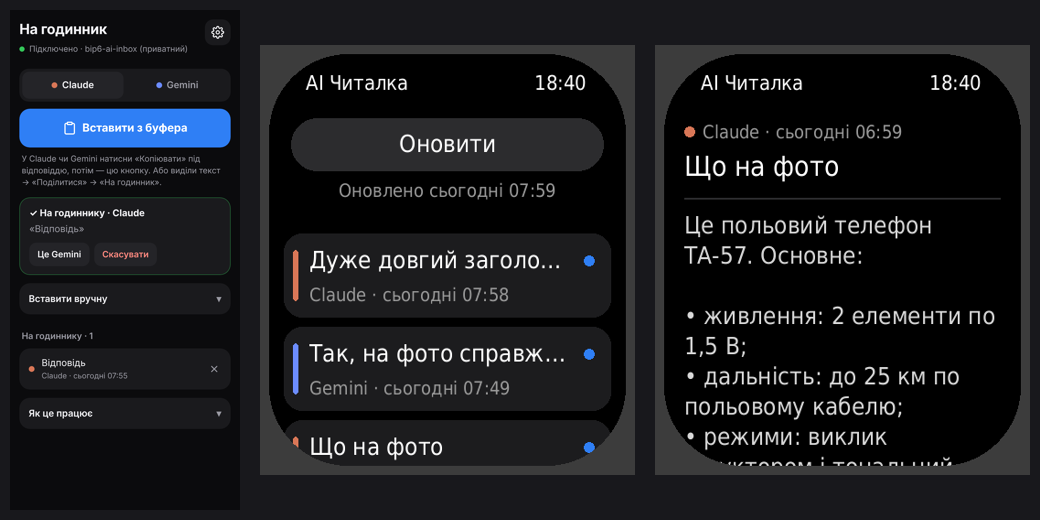
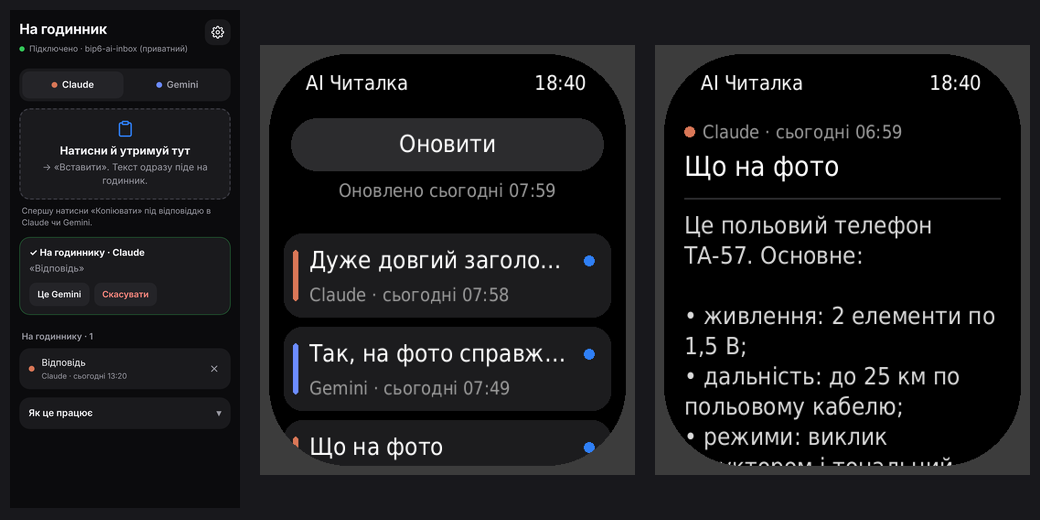
Вставка без дозволу на буфер; екран годинника не гасне
Телефон: замість кнопки, що читала буфер через дозвіл браузера (Chrome на
Android його не питав), — поле «утримуй → Вставити». Вставлене з меню чи з
підказки клавіатури надсилається одразу; якщо не вдалося — лишається в полі
з кнопкою «Надіслати на годинник».

Годинник: поки відкрита програма, екран не гасне сам (запобіжник — 10 хв
без дотиків), на списку й на перегляді.

Claude-Session: https://claude.ai/code/session_01BMYQ76pMn6ygJVUK5bhdNY

diff --git a/.pwa/app.js b/.pwa/app.js
@@ -67,7 +67,8 @@ const state = {
   check: null, // { ok, code, name }
   busy: false,
   last: null, // { text, at }
-  repeatArmed: false
+  repeatArmed: false,
+  boxPrev: '' // вміст поля до останньої зміни
 }
 
 const $ = (id) => document.getElementById(id)
@@ -277,10 +278,8 @@ async function undo(entry) {
 
 function setBusy(on) {
   state.busy = on
-  const btn = $('paste')
-  btn.disabled = on
-  $('manualSend').disabled = on
-  $('pasteLabel').textContent = on ? 'Надсилаю…' : 'Вставити з буфера'
+  $('boxSend').disabled = on
+  $('pasteZone').classList.toggle('busy', on)
 }
 
 async function send(raw, hint) {
@@ -303,12 +302,13 @@ async function send(raw, hint) {
   const now = Date.now()
   if (state.last && state.last.text === text && now - state.last.at < 90000 && !state.repeatArmed) {
     state.repeatArmed = true
-    showResult('err', 'Цей текст уже надіслано щойно', 'Натисни ще раз, якщо треба надіслати повторно.')
+    showResult('err', 'Цей текст уже надіслано щойно', 'Щоб надіслати ще раз — натисни «Надіслати на годинник».')
     return false
   }
   state.repeatArmed = false
 
   setBusy(true)
+  showResult('busy', 'Надсилаю на годинник…', '')
   try {
     if (!state.check || !state.check.ok) {
       const res = await checkConnection()
@@ -335,31 +335,59 @@ async function send(raw, hint) {
   }
 }
 
-async function pasteFromClipboard() {
-  if (state.busy) return
-  if (!navigator.clipboard || !navigator.clipboard.readText) {
-    openManual('Браузер не дає прочитати буфер — встав текст сюди.')
-    return
-  }
-  let text = ''
-  try {
-    text = await navigator.clipboard.readText()
-  } catch (e) {
-    openManual('Немає доступу до буфера. Дозволь його в запиті браузера або встав текст сюди.')
-    return
-  }
-  if (!text || !text.trim()) {
-    showResult('err', 'Буфер порожній', 'Спершу натисни «Копіювати» під відповіддю в Claude чи Gemini.')
-    return
-  }
-  await send(text)
+// ---------- поле для вставки ----------
+// Прочитати буфер сама сторінка може лише з дозволу, а Chrome на Android його
+// не завжди питає. Тож вставляє користувач: утримати поле → «Вставити» (або
+// торкнутися скопійованого тексту над клавіатурою). Вставлене йде одразу.
+
+const PASTE_MIN = 25 // стільки символів за один раз — це вставка, а не набір
+
+function hasText(s) {
+  return /\S/.test(s || '')
 }
 
-function openManual(message) {
-  const d = $('manual')
-  d.open = true
-  if (message) showResult('err', message, '')
-  setTimeout(() => $('manualText').focus(), 50)
+function updateBox() {
+  state.boxPrev = $('pasteBox').value
+  $('boxActions').classList.toggle('hidden', !hasText(state.boxPrev))
+}
+
+// Системне меню «Вставити»: беремо текст із події й замінюємо ним поле,
+// щоб він не дописався до старого.
+function onBoxPaste(e) {
+  const data = e.clipboardData
+  const text = data ? data.getData('text/plain') || data.getData('text') : ''
+  if (!hasText(text)) return // нехай браузер вставить сам, далі спрацює input
+  e.preventDefault()
+  $('pasteBox').value = text
+  submitBox()
+}
+
+// Вставка, яку не видно як paste: підказка клавіатури, перетягування.
+function onBoxInput(e) {
+  const prev = state.boxPrev || ''
+  const value = $('pasteBox').value
+  updateBox()
+  const type = e.inputType || ''
+  const jump = !hasText(prev) && value.length - prev.length >= PASTE_MIN && /\s/.test(value.trim())
+  if (type === 'insertFromPaste' || type === 'insertFromDrop' || jump) submitBox()
+}
+
+async function submitBox() {
+  const box = $('pasteBox')
+  const text = box.value
+  if (state.busy || !hasText(text)) {
+    updateBox()
+    return
+  }
+  box.blur() // ховає клавіатуру, щоб було видно результат
+  const ok = await send(text)
+  if (ok && box.value === text) box.value = ''
+  updateBox()
+}
+
+function clearBox() {
+  $('pasteBox').value = ''
+  updateBox()
 }
 
 function openRepoSettings() {
@@ -411,7 +439,8 @@ async function saveSettings() {
     if (pending) {
       try {
         const p = JSON.parse(pending)
-        await send(p.raw, p.hint)
+        const sent = await send(p.raw, p.hint)
+        if (sent && $('pasteBox').value === p.raw) clearBox()
       } catch (e) {}
     }
     setTimeout(closeSettings, 900)
@@ -464,11 +493,12 @@ function init() {
     input.type = input.type === 'password' ? 'text' : 'password'
   })
   $('saveSettings').addEventListener('click', saveSettings)
-  $('paste').addEventListener('click', pasteFromClipboard)
-  $('manualSend').addEventListener('click', async () => {
-    const ok = await send($('manualText').value)
-    if (ok) $('manualText').value = ''
-  })
+  const box = $('pasteBox')
+  box.addEventListener('paste', onBoxPaste)
+  box.addEventListener('input', onBoxInput)
+  $('boxSend').addEventListener('click', submitBox)
+  $('boxClear').addEventListener('click', clearBox)
+  updateBox()
   document.querySelectorAll('.seg button').forEach((b) =>
     b.addEventListener('click', () => {
       state.src = b.dataset.src === 'gemini' ? 'gemini' : 'claude'

diff --git a/.pwa/index.html b/.pwa/index.html
@@ -55,13 +55,36 @@
   .primary { width: 100%; height: 66px; margin-top: 12px; border-radius: var(--radius); background: var(--accent); color: #fff; font-size: 19px; font-weight: 650; display: flex; align-items: center; justify-content: center; gap: 10px; }
   .primary:active { background: var(--accent-press); }
   .primary:disabled { opacity: .55; }
-  .primary svg { width: 24px; height: 24px; }
   .hint { color: var(--muted); font-size: 14px; margin: 10px 4px 0; }
+
+  /* Поле для вставки: утримати → «Вставити». Дозволу на буфер не потребує. */
+  .paste-zone { position: relative; margin-top: 12px; }
+  .paste-zone textarea {
+    display: block; width: 100%; min-height: 156px; resize: none;
+    background: var(--card); border: 2px dashed #3d3d45; border-radius: var(--radius);
+    padding: 14px 16px; font-size: 15px; line-height: 1.4;
+  }
+  .paste-zone textarea:focus { border-style: solid; border-color: var(--accent); }
+  .pz-hint {
+    position: absolute; inset: 0; display: flex; flex-direction: column; align-items: center; justify-content: center;
+    gap: 3px; padding: 16px; text-align: center; color: var(--muted); pointer-events: none;
+  }
+  .pz-hint svg { width: 30px; height: 30px; color: var(--accent); margin-bottom: 6px; }
+  .pz-hint b { color: var(--text); font-size: 19px; font-weight: 650; }
+  .paste-zone textarea:not(:placeholder-shown) + .pz-hint { display: none; }
+  .paste-zone.busy textarea { opacity: .55; }
+  .pz-actions { display: flex; gap: 8px; margin-top: 10px; }
+  .pz-actions .primary { flex: 1; margin-top: 0; height: 54px; font-size: 17px; }
+  .pz-actions .secondary { width: auto; margin-top: 0; height: 54px; padding: 0 18px; }
 
   .result { margin-top: 14px; padding: 14px 16px; border-radius: var(--radius); background: var(--card); border: 1px solid var(--line); }
   .result.ok { border-color: rgba(52,199,89,.45); }
   .result.err { border-color: rgba(255,69,58,.5); }
   .result .r-head { font-weight: 650; }
+  .result.busy .r-head::before {
+    content: ""; display: inline-block; width: 14px; height: 14px; margin-right: 9px; vertical-align: -2px;
+    border-radius: 50%; border: 2px solid rgba(255,255,255,.3); border-top-color: #fff; animation: s .8s linear infinite;
+  }
   .result .r-title { color: var(--muted); margin-top: 4px; overflow-wrap: anywhere; }
   .result .r-actions { display: flex; gap: 8px; margin-top: 12px; flex-wrap: wrap; }
   .chip { height: 40px; padding: 0 14px; border-radius: 12px; background: var(--card-2); font-weight: 600; font-size: 15px; }
@@ -104,7 +127,6 @@
   ol { padding-left: 20px; margin: 8px 0 0; }
   ol li { margin: 6px 0; }
   .hidden { display: none !important; }
-  .spin { width: 20px; height: 20px; border-radius: 50%; border: 3px solid rgba(255,255,255,.35); border-top-color: #fff; animation: s 0.8s linear infinite; }
   @keyframes s { to { transform: rotate(360deg); } }
 </style>
 </head>
@@ -143,25 +165,25 @@
     <button type="button" data-src="gemini" aria-pressed="false"><span class="src-dot c-gemini"></span>Gemini</button>
   </div>
 
-  <button class="primary" id="paste" type="button">
-    <svg viewBox="0 0 24 24" fill="none" stroke="currentColor" stroke-width="2" stroke-linecap="round" stroke-linejoin="round"><rect x="8" y="2" width="8" height="4" rx="1"/><path d="M16 4h2a2 2 0 0 1 2 2v14a2 2 0 0 1-2 2H6a2 2 0 0 1-2-2V6a2 2 0 0 1 2-2h2"/></svg>
-    <span id="pasteLabel">Вставити з буфера</span>
-  </button>
-  <p class="hint">У Claude чи Gemini натисни «Копіювати» під відповіддю, потім — цю кнопку. Або виділи текст → «Поділитися» → «На годинник».</p>
+  <div class="paste-zone" id="pasteZone">
+    <textarea id="pasteBox" placeholder=" " aria-label="Встав відповідь сюди" autocomplete="off" autocorrect="off" autocapitalize="off" spellcheck="false"></textarea>
+    <div class="pz-hint" aria-hidden="true">
+      <svg viewBox="0 0 24 24" fill="none" stroke="currentColor" stroke-width="2" stroke-linecap="round" stroke-linejoin="round"><rect x="8" y="2" width="8" height="4" rx="1"/><path d="M16 4h2a2 2 0 0 1 2 2v14a2 2 0 0 1-2 2H6a2 2 0 0 1-2-2V6a2 2 0 0 1 2-2h2"/></svg>
+      <b>Натисни й утримуй тут</b>
+      <span>→ «Вставити». Текст одразу піде на годинник.</span>
+    </div>
+  </div>
+  <div class="pz-actions hidden" id="boxActions">
+    <button class="primary" id="boxSend" type="button">Надіслати на годинник</button>
+    <button class="secondary" id="boxClear" type="button">Очистити</button>
+  </div>
+  <p class="hint">Спершу натисни «Копіювати» під відповіддю в Claude чи Gemini.</p>
 
   <div id="result" class="result hidden" role="status">
     <div class="r-head" id="resultHead"></div>
     <div class="r-title" id="resultTitle"></div>
     <div class="r-actions" id="resultActions"></div>
   </div>
-
-  <details id="manual">
-    <summary>Вставити вручну</summary>
-    <div class="details-body">
-      <textarea id="manualText" placeholder="Натисни й утримуй тут → «Вставити»"></textarea>
-      <button class="secondary" id="manualSend" type="button">Надіслати на годинник</button>
-    </div>
-  </details>
 
   <h2 id="listTitle">На годиннику</h2>
   <div class="list" id="list"><div class="empty">Завантаження…</div></div>

diff --git a/page/index.js b/page/index.js
@@ -7,8 +7,8 @@ import { getDeviceInfo } from '@zos/device'
 import { BasePage } from '@zeppos/zml/base-page'
 import { loadIndex, syncItems, hasText, writeText } from '../utils/cache'
 import { formatStamp } from '../utils/time'
-import { COLOR, SOURCE_COLOR, STATUS_BAR_H, PREFETCH } from '../utils/constants'
-import { statusBar, setProps, removeWidget } from '../utils/ui'
+import { COLOR, SOURCE_COLOR, STATUS_BAR_H, PREFETCH, SCREEN_ON_MS } from '../utils/constants'
+import { statusBar, keepScreenOn, setProps, removeWidget } from '../utils/ui'
 import { errorMessage, bleCode } from '../utils/messages'
 import { SOURCE_NAMES } from '../shared/config'
 
@@ -40,6 +40,7 @@ Page(
       const { width: W } = getDeviceInfo()
       this.W = W
       statusBar(true)
+      keepScreenOn(SCREEN_ON_MS)
 
       let y = STATUS_BAR_H + 6
       hmUI.createWidget(hmUI.widget.BUTTON, {
@@ -99,7 +100,7 @@ Page(
             y: y + 10,
             w: W - 60,
             h: 200,
-            text: 'Поки порожньо.\nНа телефоні скопіюй відповідь Claude чи Gemini і натисни «Вставити» на сторінці «На годинник».',
+            text: 'Поки порожньо.\nСкопіюй відповідь Claude чи Gemini на телефоні й встав її на сторінці «На годинник».',
             text_size: 22,
             color: COLOR.TEXT_DIM,
             align_h: hmUI.align.CENTER_H,

diff --git a/page/view.js b/page/view.js
@@ -3,12 +3,11 @@
 import * as hmUI from '@zos/ui'
 import { back, replace } from '@zos/router'
 import { getDeviceInfo } from '@zos/device'
-import { setPageBrightTime } from '@zos/display'
 import { BasePage } from '@zeppos/zml/base-page'
 import { loadIndex, readText, writeText, markSeen } from '../utils/cache'
 import { formatStamp } from '../utils/time'
-import { COLOR, SOURCE_COLOR, STATUS_BAR_H, MAX_SHOWN } from '../utils/constants'
-import { statusBar, parseParams, textHeight, splitChunks, setProps } from '../utils/ui'
+import { COLOR, SOURCE_COLOR, STATUS_BAR_H, MAX_SHOWN, SCREEN_ON_MS } from '../utils/constants'
+import { statusBar, keepScreenOn, parseParams, textHeight, splitChunks, setProps } from '../utils/ui'
 import { errorMessage, bleCode } from '../utils/messages'
 import { SOURCE_NAMES } from '../shared/config'
 
@@ -33,9 +32,7 @@ Page(
       const { width: W } = getDeviceInfo()
       this.W = W
       statusBar(true)
-      try {
-        setPageBrightTime({ brightTime: 30000 })
-      } catch (e) {}
+      keepScreenOn(SCREEN_ON_MS)
 
       const textW = W - PAD_X * 2
       let y = STATUS_BAR_H + 6

diff --git a/utils/ui.js b/utils/ui.js
@@ -1,8 +1,17 @@
 import * as hmUI from '@zos/ui'
+import { setPageBrightTime } from '@zos/display'
 
 export function statusBar(visible) {
   try {
     if (typeof hmUI.setStatusBarVisible === 'function') hmUI.setStatusBarVisible(visible)
+  } catch (e) {}
+}
+
+// Час світіння екрана для поточної сторінки (відлік від останнього дотику).
+// Коли сторінка закривається, система сама повертає звичайний час.
+export function keepScreenOn(ms) {
+  try {
+    setPageBrightTime({ brightTime: ms })
   } catch (e) {}
 }
 

diff --git a/utils/constants.js b/utils/constants.js
@@ -30,3 +30,7 @@ export const MAX_SHOWN = 12000
 
 // Скільки найновіших текстів підвантажувати наперед після оновлення списку.
 export const PREFETCH = 3
+
+// Поки програма відкрита, екран не гасне сам. Запобіжник для батареї:
+// згасне після 10 хв без жодного дотику.
+export const SCREEN_ON_MS = 10 * 60 * 1000

diff --git a/.pwa/sw.js b/.pwa/sw.js
@@ -1,7 +1,7 @@
 // Кешує оболонку сторінки, щоб вона відкривалася швидко й без мережі.
 // Запити до GitHub API не кешуються.
 
-const CACHE = 'na-hodynnyk-v1'
+const CACHE = 'na-hodynnyk-v2'
 const SHELL = ['./', 'index.html', 'app.js', 'clean.js', 'github.js', 'manifest.webmanifest', 'icons/icon-192.png', 'icons/icon-512.png']
 
 self.addEventListener('install', (event) => {

diff --git a/README.md b/README.md
@@ -11,7 +11,7 @@
 1. **Зроби bip6-ai-inbox приватним.** [Його налаштування](https://github.com/netherm3-coder/bip6-ai-inbox/settings) → унизу Danger Zone → Change visibility → Make private. Поки він публічний, сторінка «На годинник» нічого не надсилає: інакше відповіді побачить будь-хто.
 2. **Увімкни сторінку для телефона.** У цьому репозиторії (не в bip6-ai-inbox): [Settings → Pages](https://github.com/netherm3-coder/bip6-ai-reader/settings/pages) (у меню налаштувань — нижче Codespaces) → Build and deployment → Source: **GitHub Actions**. Збірка запускається після кожної зміни в репозиторії; запустити вручну — вкладка **Actions** угорі репозиторію (не в Settings) → Build → Run workflow. Через 1–2 хвилини сторінка відкриється тут: **https://netherm3-coder.github.io/bip6-ai-reader/**
 3. **Створи токен GitHub** за [цим посиланням](https://github.com/settings/personal-access-tokens/new?name=bip6-ai&description=%D0%92%D1%96%D0%B4%D0%BF%D0%BE%D0%B2%D1%96%D0%B4%D1%96+AI+%D0%BD%D0%B0+%D0%B3%D0%BE%D0%B4%D0%B8%D0%BD%D0%BD%D0%B8%D0%BA%3A+%D0%B4%D0%BE%D1%81%D1%82%D1%83%D0%BF+%D0%BB%D0%B8%D1%88%D0%B5+%D0%B4%D0%BE+bip6-ai-inbox&expires_in=none&contents=write) (назва, термін і право Contents: Read and write уже заповнені). Сам вибери лише **Repository access → Only select repositories → bip6-ai-inbox**, далі Generate token і скопіюй `github_pat_…`. GitHub показує токен один раз.
-4. **Телефон.** Відкрий сторінку з кроку 2 у **Chrome** → ⋮ → «Установити застосунок» (або «Додати на головний екран»). Відкрий «На годинник» з головного екрана → встав токен → «Зберегти й перевірити». Має з'явитися «✓ Підключено».
+4. **Телефон.** Відкрий сторінку з кроку 2 у **Chrome** → встав токен → «Зберегти й перевірити». Має з'явитися «✓ Підключено». Установлювати сторінку не обов'язково, досить закладки. Установлена (⋮ → «Додати на головний екран») ще й з'являється в меню «Поділитися».
 5. **Годинник.** Zepp → Профіль → Amazfit Bip 6 → самий низ → «Режим розробника» → кнопка сканування вгорі праворуч → відскануй QR (показати його можна з іншого екрана):
 
    <img src="docs/install-qr.png" width="220" alt="QR для встановлення">
@@ -21,7 +21,7 @@
 
 ## Щодня
 
-- У Claude чи Gemini під відповіддю натисни **«Копіювати»** → відкрий «На годинник» → **«Вставити з буфера»**. Першого разу браузер спитає дозвіл на буфер — дозволь.
+- У Claude чи Gemini під відповіддю натисни **«Копіювати»** → відкрий «На годинник» → **натисни й утримуй поле → «Вставити»**. Текст іде на годинник одразу, дозвіл на буфер не потрібен. Можна й торкнутися скопійованого тексту над клавіатурою.
 - Або виділи текст → **«Поділитися»** → «На годинник». Працює, якщо сторінку встановлено через Chrome.
 - На годиннику відкрий **«AI Читалка»** — список оновиться сам. Нові відповіді позначені синьою крапкою; три найновіші підвантажуються одразу, тож їх можна читати й без телефона поруч.
 
@@ -32,6 +32,7 @@
 - Передається лише текст. Розмітка (жирний, заголовки, таблиці, формули) перетворюється на простий текст; емодзі прибираються, бо шрифт годинника їх не має.
 - Зберігаються останні 50 відповідей; старіші видаляються самі. Видалити вручну — хрестик у списку на сторінці «На годинник».
 - На годиннику показується до 12 000 символів відповіді, на GitHub зберігається до 20 000.
+- Поки «AI Читалка» відкрита, екран годинника не гасне сам. Запобіжник для батареї: після 10 хв без жодного дотику згасне.
 - Токен лежить лише на твоєму телефоні: у браузері (сторінка «На годинник») і в Zepp. Він має доступ тільки до bip6-ai-inbox.
 - Годинник оновлює список через Zepp, тому Zepp має бути запущений на телефоні, а телефон — з інтернетом.
 
